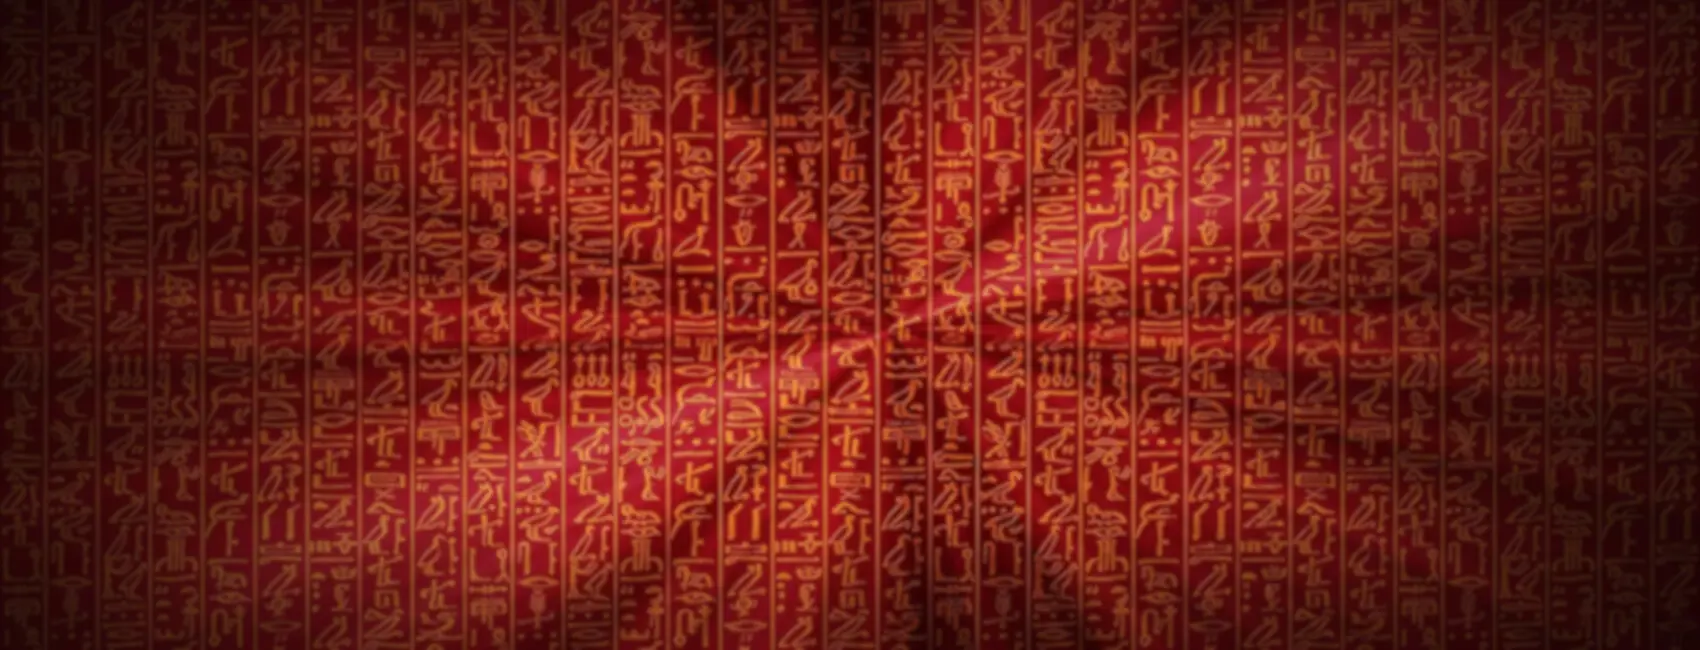
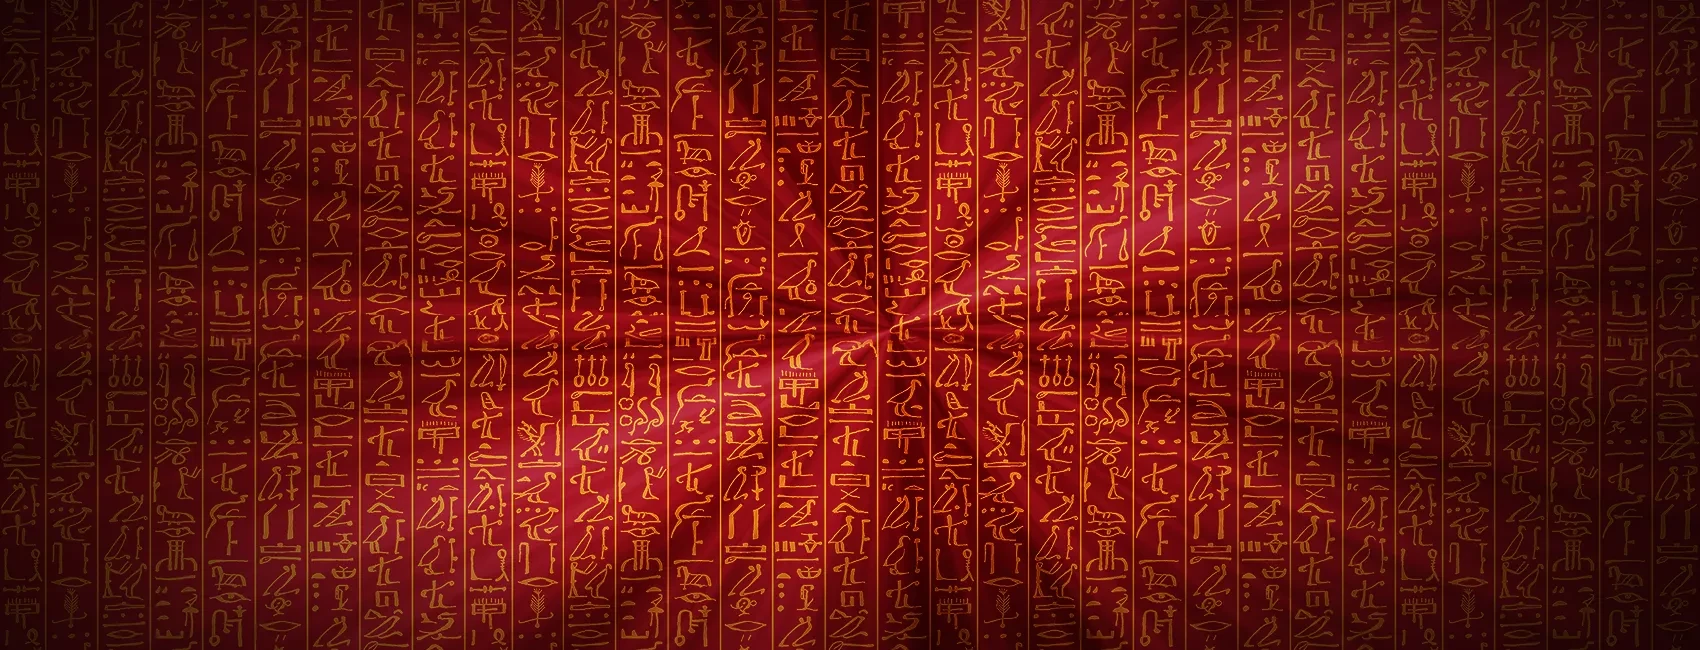
UI Update

Changed region(s): [[0.0935, 0.0, 0.9041, 1.0]]

diff --git a/src/components/organisms/GroupContainer.tsx b/src/components/organisms/GroupContainer.tsx
@@ -4,7 +4,7 @@ import {
   StorageCardEntityType,
   StorageEntityType,
 } from "../../models/entities/storage.entity";
-import { useCallback, useRef, useState } from "preact/hooks";
+import { useCallback, useEffect, useRef, useState } from "preact/hooks";
 import {
   addCardsIntoGroup,
   addGroupColumn,
@@ -29,6 +29,7 @@ import { Button } from "../ui/button";
 import { Input } from "../ui/input";
 import { appendUrlPath } from "../../utils/path";
 import ColorPicker from "../ui/color-picker";
+import { useWindowSize } from "../../hooks/window.hook";
 
 export function GroupContainer({
   group: {
@@ -40,13 +41,20 @@ export function GroupContainer({
 }: {
   group: StorageEntityType["groups"][number];
 }) {
-  const [width, height] = SIZE;
+  const [{ width, height }, setCardSize] = useState<{
+    width: number;
+    height: number;
+  }>({
+    width: SIZE[0],
+    height: SIZE[1],
+  });
 
   const dragCard = useRef<number>(-1);
   const draggedOverCard = useRef<number>(-1);
   const [isDrag, setDrag] = useState<boolean>(false);
   const [remove, setRemove] = useState<boolean>(false);
   const [nameEdit, setNameEdit] = useState<boolean>(false);
+  const size = useWindowSize();
 
   const handleSort = useCallback(() => {
     const cardsClone: StorageCardEntityType[] = [...cards];
@@ -69,11 +77,36 @@ export function GroupContainer({
     [addCardsIntoGroup, id]
   );
 
+  useEffect(() => {
+    if (size.width <= 345) {
+      const scaleFactor = Math.max(0.005, Math.min(1.5, size.width / 720));
+
+      setCardSize(() => ({
+        width: SIZE[0] * scaleFactor,
+        height: SIZE[1] * scaleFactor,
+      }));
+    } else if (size.width <= 521) {
+      const scaleFactor = Math.max(0.005, Math.min(1.5, size.width / 640));
+
+      setCardSize(() => ({
+        width: SIZE[0] * scaleFactor,
+        height: SIZE[1] * scaleFactor,
+      }));
+    } else {
+      setCardSize(() => ({
+        width: SIZE[0],
+        height: SIZE[1],
+      }));
+    }
+  }, [size]);
+
   return (
     <UiCard>
       <CardHeader>
         <CardTitle
-          className={"relative flex items-center gap-4 border-b-2 pb-4"}
+          className={
+            "relative flex items-center gap-4 border-b-2 pb-4 animate-in animate-bounce"
+          }
         >
           {nameEdit ? (
             <Input
@@ -172,7 +205,7 @@ export function GroupContainer({
           </div>
         </div>
         <div>
-          <div class={"relative gap-2 p-4 bg-slate-900 mt-2 rounded-2xl"}>
+          <div class={"relative gap-2 p-4 bg-slate-00 mt-2 rounded-2xl"}>
             <div className={"w-full flex flex-col gap-2"}>
               <ColumnsButton groupId={id} columns={columns} />
               <BackgroundColor groupId={id} background={background} />

diff --git a/src/components/pages/home.page.tsx b/src/components/pages/home.page.tsx
@@ -3,6 +3,8 @@ import { useStorage } from "../../hooks/storage.hook";
 import { GroupContainer } from "../organisms/GroupContainer";
 import { Button } from "../ui/button";
 import { createGroup } from "../../services/groups/update";
+import { Footer } from "../organisms/Footer";
+import { appendUrlPath } from "../../utils/path";
 
 export function HomePage() {
   const {
@@ -11,6 +13,17 @@ export function HomePage() {
 
   return (
     <main>
+      <img
+        src={appendUrlPath("/background.webp")}
+        width={"100vw"}
+        height={"100vh"}
+        style={{
+          width: "100vw",
+          height: "100vh",
+          animationDuration: "150s",
+        }}
+        class={"fixed left-0 top-0 object-cover -z-10 animate-pulse"}
+      />
       <div>
         <div className={"flex flex-col gap-4"}>
           {groups.map((each) => (
@@ -28,6 +41,7 @@ export function HomePage() {
           </Button>
         </div>
       </div>
+      <Footer />
     </main>
   );
 }

diff --git a/src/hooks/window.hook.ts b/src/hooks/window.hook.ts
@@ -1,0 +1,19 @@
+import { useState, useEffect } from "preact/hooks";
+
+export function useWindowSize() {
+  const [size, setSize] = useState({
+    width: window.innerWidth,
+    height: window.innerHeight,
+  });
+
+  useEffect(() => {
+    const handleResize = () => {
+      setSize({ width: window.innerWidth, height: window.innerHeight });
+    };
+
+    window.addEventListener("resize", handleResize);
+    return () => window.removeEventListener("resize", handleResize);
+  }, []);
+
+  return size;
+}

diff --git a/src/components/organisms/Footer.tsx b/src/components/organisms/Footer.tsx
@@ -1,0 +1,15 @@
+import { GithubButton } from "../atoms/GithubButton";
+import { Card, CardContent } from "../ui/card";
+
+export function Footer() {
+  return (
+    <footer className={"w-full relative mt-28"}>
+      <Card className={"py-2"}>
+        <CardContent className={"text-center"}>
+          <p className={"font-bold uppercase mb-2"}>Github</p>
+          <GithubButton />
+        </CardContent>
+      </Card>
+    </footer>
+  );
+}

diff --git a/src/components/atoms/GithubButton.tsx b/src/components/atoms/GithubButton.tsx
@@ -1,0 +1,16 @@
+import { GithubIcon } from "lucide-react";
+import { ButtonAnchor } from "../ui/button_anchor";
+
+export function GithubButton() {
+  return (
+    <ButtonAnchor
+      variant="destructive"
+      size="icon"
+      href="https://github.com/lukadevv/card-viewer"
+      aria-label="Creator github profile"
+      className="max-[230px]:hidden"
+    >
+      <GithubIcon />
+    </ButtonAnchor>
+  );
+}

diff --git a/src/app.css b/src/app.css
@@ -5,12 +5,6 @@ body {
   padding: 0;
   width: 100%;
   box-sizing: border-box;
-
-  background: url(/background.webp);
-  background-position: center center;
-  background-repeat: no-repeat;
-  background-size: cover;
-  background-attachment: fixed;
 }
 
 main {

diff --git a/src/components/molecules/CardCounter.tsx b/src/components/molecules/CardCounter.tsx
@@ -29,8 +29,8 @@ export function CardCounter({
     <div>
       <div
         style={{
-          height,
           width,
+          height,
         }}
       >
         <Button
